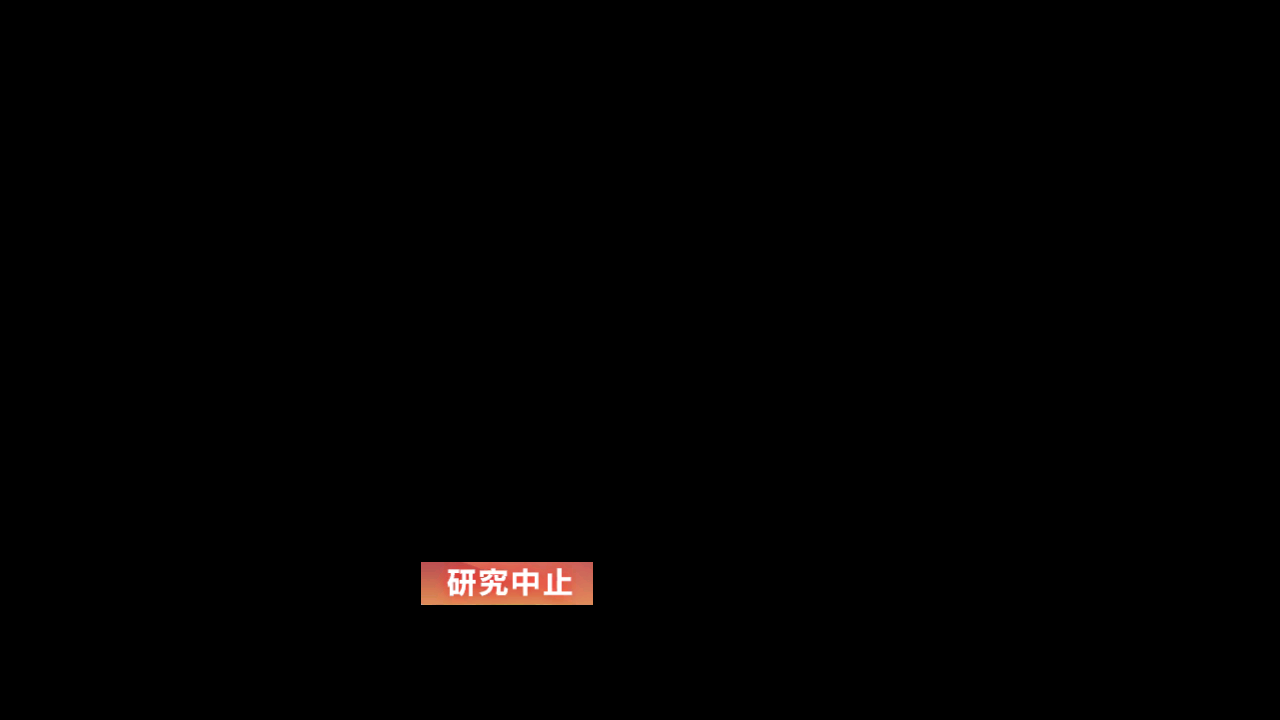
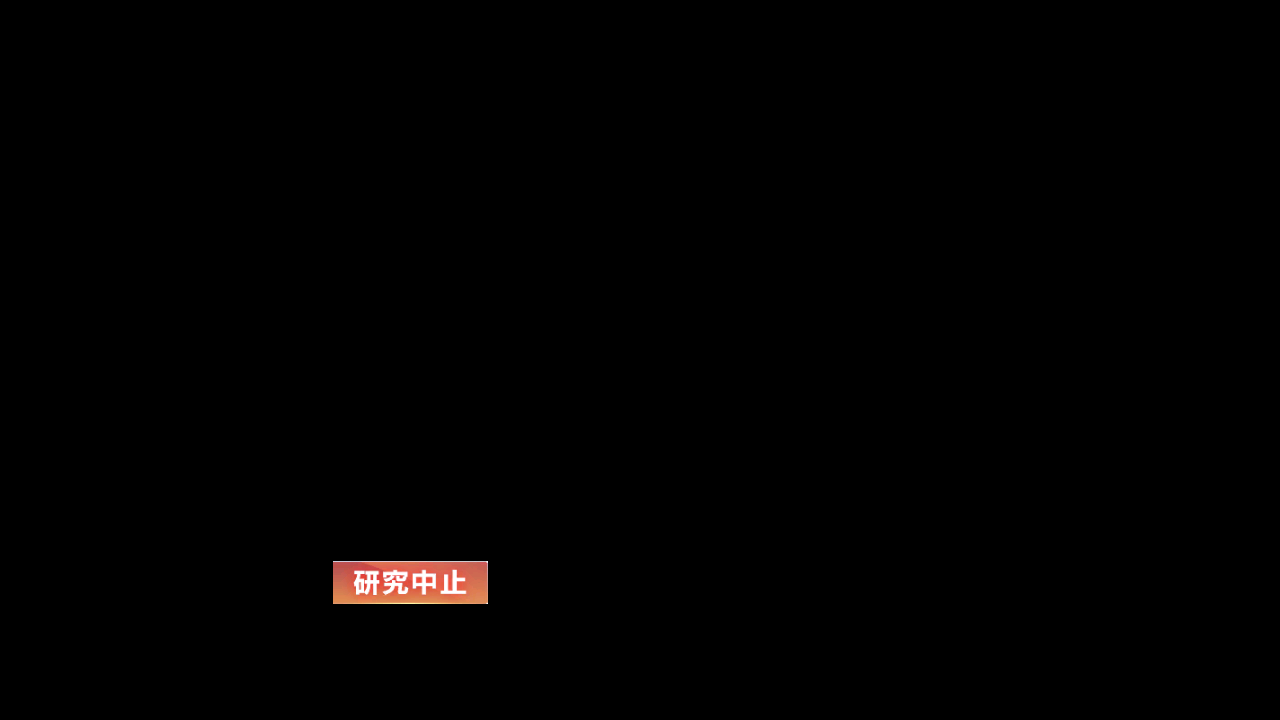
Fix: [JP] Research assets

Changed region(s): [[0.25, 0.7639, 0.4688, 0.8556]]

diff --git a/module/research/assets.py b/module/research/assets.py
@@ -30,9 +30,9 @@ OCR_RESEARCH_2 = Button(area={'cn': (292, 263, 490, 325), 'en': (292, 263, 490, 
 OCR_RESEARCH_3 = Button(area={'cn': (505, 249, 730, 319), 'en': (505, 249, 730, 319), 'jp': (505, 249, 730, 319), 'tw': (505, 249, 730, 319)}, color={'cn': (204, 180, 143), 'en': (204, 180, 143), 'jp': (204, 180, 143), 'tw': (204, 180, 143)}, button={'cn': (505, 249, 730, 319), 'en': (505, 249, 730, 319), 'jp': (505, 249, 730, 319), 'tw': (505, 249, 730, 319)}, file={'cn': './assets/cn/research/OCR_RESEARCH_3.png', 'en': './assets/en/research/OCR_RESEARCH_3.png', 'jp': './assets/jp/research/OCR_RESEARCH_3.png', 'tw': './assets/tw/research/OCR_RESEARCH_3.png'})
 OCR_RESEARCH_4 = Button(area={'cn': (752, 263, 950, 325), 'en': (752, 263, 950, 325), 'jp': (752, 263, 950, 325), 'tw': (752, 263, 950, 325)}, color={'cn': (122, 155, 203), 'en': (122, 155, 203), 'jp': (122, 155, 203), 'tw': (122, 155, 203)}, button={'cn': (752, 263, 950, 325), 'en': (752, 263, 950, 325), 'jp': (752, 263, 950, 325), 'tw': (752, 263, 950, 325)}, file={'cn': './assets/cn/research/OCR_RESEARCH_4.png', 'en': './assets/en/research/OCR_RESEARCH_4.png', 'jp': './assets/jp/research/OCR_RESEARCH_4.png', 'tw': './assets/tw/research/OCR_RESEARCH_4.png'})
 OCR_RESEARCH_5 = Button(area={'cn': (998, 276, 1169, 329), 'en': (998, 276, 1169, 329), 'jp': (998, 276, 1169, 329), 'tw': (998, 276, 1169, 329)}, color={'cn': (124, 156, 204), 'en': (124, 156, 204), 'jp': (124, 156, 204), 'tw': (124, 156, 204)}, button={'cn': (998, 276, 1169, 329), 'en': (998, 276, 1169, 329), 'jp': (998, 276, 1169, 329), 'tw': (998, 276, 1169, 329)}, file={'cn': './assets/cn/research/OCR_RESEARCH_5.png', 'en': './assets/en/research/OCR_RESEARCH_5.png', 'jp': './assets/jp/research/OCR_RESEARCH_5.png', 'tw': './assets/tw/research/OCR_RESEARCH_5.png'})
-QUEUE_CHECK = Button(area={'cn': (118, 16, 227, 39), 'en': (117, 16, 215, 38), 'jp': (118, 16, 227, 39), 'tw': (118, 16, 227, 39)}, color={'cn': (149, 166, 205), 'en': (125, 139, 179), 'jp': (149, 166, 205), 'tw': (149, 166, 205)}, button={'cn': (118, 16, 227, 39), 'en': (117, 16, 215, 38), 'jp': (118, 16, 227, 39), 'tw': (118, 16, 227, 39)}, file={'cn': './assets/cn/research/QUEUE_CHECK.png', 'en': './assets/en/research/QUEUE_CHECK.png', 'jp': './assets/cn/research/QUEUE_CHECK.png', 'tw': './assets/cn/research/QUEUE_CHECK.png'})
-QUEUE_CLAIM_REWARD = Button(area={'cn': (1230, 275, 1272, 420), 'en': (1225, 258, 1270, 448), 'jp': (1230, 275, 1272, 420), 'tw': (1230, 275, 1272, 420)}, color={'cn': (249, 182, 121), 'en': (249, 171, 97), 'jp': (249, 182, 121), 'tw': (249, 182, 121)}, button={'cn': (1230, 275, 1272, 420), 'en': (1225, 258, 1270, 448), 'jp': (1230, 275, 1272, 420), 'tw': (1230, 275, 1272, 420)}, file={'cn': './assets/cn/research/QUEUE_CLAIM_REWARD.png', 'en': './assets/en/research/QUEUE_CLAIM_REWARD.png', 'jp': './assets/cn/research/QUEUE_CLAIM_REWARD.png', 'tw': './assets/cn/research/QUEUE_CLAIM_REWARD.png'})
-QUEUE_REMAIN = Button(area={'cn': (156, 605, 272, 637), 'en': (151, 580, 278, 617), 'jp': (156, 605, 272, 637), 'tw': (156, 605, 272, 637)}, color={'cn': (193, 212, 240), 'en': (191, 210, 238), 'jp': (193, 212, 240), 'tw': (193, 212, 240)}, button={'cn': (156, 605, 272, 637), 'en': (151, 580, 278, 617), 'jp': (156, 605, 272, 637), 'tw': (156, 605, 272, 637)}, file={'cn': './assets/cn/research/QUEUE_REMAIN.png', 'en': './assets/en/research/QUEUE_REMAIN.png', 'jp': './assets/jp/research/QUEUE_REMAIN.png', 'tw': './assets/tw/research/QUEUE_REMAIN.png'})
+QUEUE_CHECK = Button(area={'cn': (118, 16, 227, 39), 'en': (117, 16, 215, 38), 'jp': (116, 14, 232, 42), 'tw': (118, 16, 227, 39)}, color={'cn': (149, 166, 205), 'en': (125, 139, 179), 'jp': (147, 163, 199), 'tw': (149, 166, 205)}, button={'cn': (118, 16, 227, 39), 'en': (117, 16, 215, 38), 'jp': (116, 14, 232, 42), 'tw': (118, 16, 227, 39)}, file={'cn': './assets/cn/research/QUEUE_CHECK.png', 'en': './assets/en/research/QUEUE_CHECK.png', 'jp': './assets/jp/research/QUEUE_CHECK.png', 'tw': './assets/cn/research/QUEUE_CHECK.png'})
+QUEUE_CLAIM_REWARD = Button(area={'cn': (1230, 275, 1272, 420), 'en': (1225, 258, 1270, 448), 'jp': (1219, 254, 1279, 460), 'tw': (1230, 275, 1272, 420)}, color={'cn': (249, 182, 121), 'en': (249, 171, 97), 'jp': (249, 170, 97), 'tw': (249, 182, 121)}, button={'cn': (1230, 275, 1272, 420), 'en': (1225, 258, 1270, 448), 'jp': (1219, 254, 1279, 460), 'tw': (1230, 275, 1272, 420)}, file={'cn': './assets/cn/research/QUEUE_CLAIM_REWARD.png', 'en': './assets/en/research/QUEUE_CLAIM_REWARD.png', 'jp': './assets/jp/research/QUEUE_CLAIM_REWARD.png', 'tw': './assets/cn/research/QUEUE_CLAIM_REWARD.png'})
+QUEUE_REMAIN = Button(area={'cn': (156, 605, 272, 637), 'en': (151, 580, 278, 617), 'jp': (157, 605, 277, 636), 'tw': (156, 605, 272, 637)}, color={'cn': (193, 212, 240), 'en': (191, 210, 238), 'jp': (188, 208, 239), 'tw': (193, 212, 240)}, button={'cn': (156, 605, 272, 637), 'en': (151, 580, 278, 617), 'jp': (157, 605, 277, 636), 'tw': (156, 605, 272, 637)}, file={'cn': './assets/cn/research/QUEUE_REMAIN.png', 'en': './assets/en/research/QUEUE_REMAIN.png', 'jp': './assets/jp/research/QUEUE_REMAIN.png', 'tw': './assets/tw/research/QUEUE_REMAIN.png'})
 RESEARCH_COST_CHECKER = Button(area={'cn': (809, 365, 972, 386), 'en': (809, 365, 972, 386), 'jp': (809, 365, 972, 386), 'tw': (809, 365, 972, 386)}, color={'cn': (105, 114, 128), 'en': (105, 114, 128), 'jp': (105, 114, 128), 'tw': (105, 114, 128)}, button={'cn': (809, 365, 972, 386), 'en': (809, 365, 972, 386), 'jp': (809, 365, 972, 386), 'tw': (809, 365, 972, 386)}, file={'cn': './assets/cn/research/RESEARCH_COST_CHECKER.png', 'en': './assets/en/research/RESEARCH_COST_CHECKER.png', 'jp': './assets/jp/research/RESEARCH_COST_CHECKER.png', 'tw': './assets/tw/research/RESEARCH_COST_CHECKER.png'})
 RESEARCH_DETAIL_QUIT = Button(area={'cn': (695, 656, 784, 707), 'en': (695, 656, 784, 707), 'jp': (695, 656, 784, 707), 'tw': (695, 656, 784, 707)}, color={'cn': (50, 57, 74), 'en': (50, 57, 74), 'jp': (50, 57, 74), 'tw': (50, 57, 74)}, button={'cn': (695, 656, 784, 707), 'en': (695, 656, 784, 707), 'jp': (695, 656, 784, 707), 'tw': (695, 656, 784, 707)}, file={'cn': './assets/cn/research/RESEARCH_DETAIL_QUIT.png', 'en': './assets/en/research/RESEARCH_DETAIL_QUIT.png', 'jp': './assets/jp/research/RESEARCH_DETAIL_QUIT.png', 'tw': './assets/tw/research/RESEARCH_DETAIL_QUIT.png'})
 RESEARCH_FINISHED = Button(area={'cn': (384, 547, 502, 585), 'en': (382, 545, 504, 587), 'jp': (383, 546, 503, 586), 'tw': (384, 547, 502, 585)}, color={'cn': (233, 163, 69), 'en': (235, 174, 92), 'jp': (229, 159, 63), 'tw': (233, 163, 69)}, button={'cn': (384, 547, 502, 585), 'en': (382, 545, 504, 587), 'jp': (383, 546, 503, 586), 'tw': (384, 547, 502, 585)}, file={'cn': './assets/cn/research/RESEARCH_FINISHED.png', 'en': './assets/en/research/RESEARCH_FINISHED.png', 'jp': './assets/jp/research/RESEARCH_FINISHED.png', 'tw': './assets/tw/research/RESEARCH_FINISHED.png'})
@@ -40,10 +40,10 @@ RESEARCH_GOTO_QUEUE = Button(area={'cn': (4, 227, 51, 255), 'en': (4, 227, 51, 2
 RESEARCH_LAB = Button(area={'cn': (55, 518, 186, 559), 'en': (75, 539, 129, 558), 'jp': (56, 512, 189, 554), 'tw': (54, 533, 187, 562)}, color={'cn': (113, 142, 174), 'en': (133, 169, 199), 'jp': (106, 136, 168), 'tw': (121, 161, 195)}, button={'cn': (55, 518, 186, 559), 'en': (75, 539, 129, 558), 'jp': (56, 512, 189, 554), 'tw': (54, 533, 187, 562)}, file={'cn': './assets/cn/research/RESEARCH_LAB.png', 'en': './assets/en/research/RESEARCH_LAB.png', 'jp': './assets/jp/research/RESEARCH_LAB.png', 'tw': './assets/tw/research/RESEARCH_LAB.png'})
 RESEARCH_LAB_DURATION_REMAIN = Button(area={'cn': (379, 583, 504, 614), 'en': (379, 583, 504, 614), 'jp': (379, 583, 504, 614), 'tw': (379, 583, 504, 614)}, color={'cn': (158, 157, 158), 'en': (158, 157, 158), 'jp': (158, 157, 158), 'tw': (158, 157, 158)}, button={'cn': (379, 583, 504, 614), 'en': (379, 583, 504, 614), 'jp': (379, 583, 504, 614), 'tw': (379, 583, 504, 614)}, file={'cn': './assets/cn/research/RESEARCH_LAB_DURATION_REMAIN.png', 'en': './assets/en/research/RESEARCH_LAB_DURATION_REMAIN.png', 'jp': './assets/jp/research/RESEARCH_LAB_DURATION_REMAIN.png', 'tw': './assets/tw/research/RESEARCH_LAB_DURATION_REMAIN.png'})
 RESEARCH_PENDING = Button(area={'cn': (227, 589, 269, 607), 'en': (227, 589, 269, 607), 'jp': (221, 588, 282, 612), 'tw': (225, 586, 272, 612)}, color={'cn': (108, 163, 168), 'en': (98, 152, 158), 'jp': (101, 148, 156), 'tw': (93, 144, 151)}, button={'cn': (227, 589, 269, 607), 'en': (227, 589, 269, 607), 'jp': (221, 588, 282, 612), 'tw': (225, 586, 272, 612)}, file={'cn': './assets/cn/research/RESEARCH_PENDING.png', 'en': './assets/en/research/RESEARCH_PENDING.png', 'jp': './assets/jp/research/RESEARCH_PENDING.png', 'tw': './assets/tw/research/RESEARCH_PENDING.png'})
-RESEARCH_QUEUE_ADD = Button(area={'cn': (541, 570, 654, 595), 'en': (564, 574, 635, 590), 'jp': (541, 570, 654, 595), 'tw': (541, 570, 654, 595)}, color={'cn': (164, 203, 237), 'en': (144, 189, 232), 'jp': (164, 203, 237), 'tw': (164, 203, 237)}, button={'cn': (541, 570, 654, 595), 'en': (564, 574, 635, 590), 'jp': (541, 570, 654, 595), 'tw': (541, 570, 654, 595)}, file={'cn': './assets/cn/research/RESEARCH_QUEUE_ADD.png', 'en': './assets/en/research/RESEARCH_QUEUE_ADD.png', 'jp': './assets/cn/research/RESEARCH_QUEUE_ADD.png', 'tw': './assets/cn/research/RESEARCH_QUEUE_ADD.png'})
+RESEARCH_QUEUE_ADD = Button(area={'cn': (541, 570, 654, 595), 'en': (564, 574, 635, 590), 'jp': (522, 559, 679, 604), 'tw': (541, 570, 654, 595)}, color={'cn': (164, 203, 237), 'en': (144, 189, 232), 'jp': (113, 166, 221), 'tw': (164, 203, 237)}, button={'cn': (541, 570, 654, 595), 'en': (564, 574, 635, 590), 'jp': (522, 559, 679, 604), 'tw': (541, 570, 654, 595)}, file={'cn': './assets/cn/research/RESEARCH_QUEUE_ADD.png', 'en': './assets/en/research/RESEARCH_QUEUE_ADD.png', 'jp': './assets/jp/research/RESEARCH_QUEUE_ADD.png', 'tw': './assets/cn/research/RESEARCH_QUEUE_ADD.png'})
 RESEARCH_RUNNING = Button(area={'cn': (313, 556, 362, 619), 'en': (313, 556, 362, 619), 'jp': (313, 556, 362, 619), 'tw': (313, 556, 362, 619)}, color={'cn': (124, 126, 131), 'en': (124, 126, 131), 'jp': (124, 126, 131), 'tw': (124, 126, 131)}, button={'cn': (313, 556, 362, 619), 'en': (313, 556, 362, 619), 'jp': (313, 556, 362, 619), 'tw': (313, 556, 362, 619)}, file={'cn': './assets/cn/research/RESEARCH_RUNNING.png', 'en': './assets/en/research/RESEARCH_RUNNING.png', 'jp': './assets/jp/research/RESEARCH_RUNNING.png', 'tw': './assets/tw/research/RESEARCH_RUNNING.png'})
-RESEARCH_START = Button(area={'cn': (445, 569, 568, 597), 'en': (459, 571, 556, 591), 'jp': (421, 562, 594, 605), 'tw': (423, 558, 594, 605)}, color={'cn': (173, 211, 242), 'en': (140, 188, 231), 'jp': (123, 173, 222), 'tw': (126, 176, 227)}, button={'cn': (445, 569, 568, 597), 'en': (459, 571, 556, 591), 'jp': (421, 562, 594, 605), 'tw': (423, 558, 594, 605)}, file={'cn': './assets/cn/research/RESEARCH_START.png', 'en': './assets/en/research/RESEARCH_START.png', 'jp': './assets/jp/research/RESEARCH_START.png', 'tw': './assets/tw/research/RESEARCH_START.png'})
-RESEARCH_STOP = Button(area={'cn': (329, 561, 485, 602), 'en': (349, 574, 464, 592), 'jp': (421, 562, 593, 605), 'tw': (423, 558, 594, 605)}, color={'cn': (228, 138, 117), 'en': (231, 152, 141), 'jp': (225, 137, 117), 'tw': (230, 141, 120)}, button={'cn': (329, 561, 485, 602), 'en': (349, 574, 464, 592), 'jp': (421, 562, 593, 605), 'tw': (423, 558, 594, 605)}, file={'cn': './assets/cn/research/RESEARCH_STOP.png', 'en': './assets/en/research/RESEARCH_STOP.png', 'jp': './assets/jp/research/RESEARCH_STOP.png', 'tw': './assets/tw/research/RESEARCH_STOP.png'})
+RESEARCH_START = Button(area={'cn': (445, 569, 568, 597), 'en': (459, 571, 556, 591), 'jp': (423, 556, 596, 608), 'tw': (423, 558, 594, 605)}, color={'cn': (173, 211, 242), 'en': (140, 188, 231), 'jp': (109, 163, 219), 'tw': (126, 176, 227)}, button={'cn': (445, 569, 568, 597), 'en': (459, 571, 556, 591), 'jp': (423, 556, 596, 608), 'tw': (423, 558, 594, 605)}, file={'cn': './assets/cn/research/RESEARCH_START.png', 'en': './assets/en/research/RESEARCH_START.png', 'jp': './assets/jp/research/RESEARCH_START.png', 'tw': './assets/tw/research/RESEARCH_START.png'})
+RESEARCH_STOP = Button(area={'cn': (329, 561, 485, 602), 'en': (349, 574, 464, 592), 'jp': (333, 561, 488, 604), 'tw': (423, 558, 594, 605)}, color={'cn': (228, 138, 117), 'en': (231, 152, 141), 'jp': (225, 138, 117), 'tw': (230, 141, 120)}, button={'cn': (329, 561, 485, 602), 'en': (349, 574, 464, 592), 'jp': (333, 561, 488, 604), 'tw': (423, 558, 594, 605)}, file={'cn': './assets/cn/research/RESEARCH_STOP.png', 'en': './assets/en/research/RESEARCH_STOP.png', 'jp': './assets/jp/research/RESEARCH_STOP.png', 'tw': './assets/tw/research/RESEARCH_STOP.png'})
 RESEARCH_UNAVAILABLE = Button(area={'cn': (509, 569, 568, 597), 'en': (434, 573, 577, 593), 'jp': (421, 562, 595, 605), 'tw': (440, 565, 576, 601)}, color={'cn': (185, 191, 194), 'en': (150, 176, 199), 'jp': (159, 174, 202), 'tw': (156, 181, 203)}, button={'cn': (509, 569, 568, 597), 'en': (434, 573, 577, 593), 'jp': (421, 562, 595, 605), 'tw': (440, 565, 576, 601)}, file={'cn': './assets/cn/research/RESEARCH_UNAVAILABLE.png', 'en': './assets/en/research/RESEARCH_UNAVAILABLE.png', 'jp': './assets/jp/research/RESEARCH_UNAVAILABLE.png', 'tw': './assets/tw/research/RESEARCH_UNAVAILABLE.png'})
 RESET_AVAILABLE = Button(area={'cn': (1153, 662, 1227, 679), 'en': (1099, 648, 1238, 693), 'jp': (1101, 650, 1236, 690), 'tw': (1102, 651, 1235, 691)}, color={'cn': (101, 118, 152), 'en': (62, 84, 110), 'jp': (74, 88, 121), 'tw': (67, 82, 116)}, button={'cn': (1153, 662, 1227, 679), 'en': (1099, 648, 1238, 693), 'jp': (1101, 650, 1236, 690), 'tw': (1102, 651, 1235, 691)}, file={'cn': './assets/cn/research/RESET_AVAILABLE.png', 'en': './assets/en/research/RESET_AVAILABLE.png', 'jp': './assets/jp/research/RESET_AVAILABLE.png', 'tw': './assets/tw/research/RESET_AVAILABLE.png'})
 SERIES_1 = Button(area={'cn': (86, 154, 113, 173), 'en': (86, 154, 113, 173), 'jp': (86, 154, 113, 173), 'tw': (86, 154, 113, 173)}, color={'cn': (197, 108, 91), 'en': (197, 108, 91), 'jp': (197, 108, 91), 'tw': (197, 108, 91)}, button={'cn': (86, 154, 113, 173), 'en': (86, 154, 113, 173), 'jp': (86, 154, 113, 173), 'tw': (86, 154, 113, 173)}, file={'cn': './assets/cn/research/SERIES_1.png', 'en': './assets/en/research/SERIES_1.png', 'jp': './assets/jp/research/SERIES_1.png', 'tw': './assets/tw/research/SERIES_1.png'})
@@ -59,6 +59,6 @@ STATUS_2 = Button(area={'cn': (330, 570, 336, 576), 'en': (330, 570, 336, 576), 
 STATUS_3 = Button(area={'cn': (549, 598, 556, 605), 'en': (549, 598, 556, 605), 'jp': (549, 598, 556, 605), 'tw': (549, 598, 556, 605)}, color={'cn': (115, 166, 222), 'en': (115, 166, 222), 'jp': (115, 166, 222), 'tw': (115, 166, 222)}, button={'cn': (549, 598, 556, 605), 'en': (549, 598, 556, 605), 'jp': (549, 598, 556, 605), 'tw': (549, 598, 556, 605)}, file={'cn': './assets/cn/research/STATUS_3.png', 'en': './assets/en/research/STATUS_3.png', 'jp': './assets/jp/research/STATUS_3.png', 'tw': './assets/tw/research/STATUS_3.png'})
 STATUS_4 = Button(area={'cn': (790, 570, 796, 576), 'en': (790, 570, 796, 576), 'jp': (790, 570, 796, 576), 'tw': (790, 570, 796, 576)}, color={'cn': (115, 166, 222), 'en': (115, 166, 222), 'jp': (115, 166, 222), 'tw': (115, 166, 222)}, button={'cn': (790, 570, 796, 576), 'en': (790, 570, 796, 576), 'jp': (790, 570, 796, 576), 'tw': (790, 570, 796, 576)}, file={'cn': './assets/cn/research/STATUS_4.png', 'en': './assets/en/research/STATUS_4.png', 'jp': './assets/jp/research/STATUS_4.png', 'tw': './assets/tw/research/STATUS_4.png'})
 STATUS_5 = Button(area={'cn': (1031, 541, 1037, 547), 'en': (1031, 541, 1037, 547), 'jp': (1031, 541, 1037, 547), 'tw': (1031, 541, 1037, 547)}, color={'cn': (115, 166, 222), 'en': (115, 166, 222), 'jp': (115, 166, 222), 'tw': (115, 166, 222)}, button={'cn': (1031, 541, 1037, 547), 'en': (1031, 541, 1037, 547), 'jp': (1031, 541, 1037, 547), 'tw': (1031, 541, 1037, 547)}, file={'cn': './assets/cn/research/STATUS_5.png', 'en': './assets/en/research/STATUS_5.png', 'jp': './assets/jp/research/STATUS_5.png', 'tw': './assets/tw/research/STATUS_5.png'})
-TEMPLATE_DETAIL = Template(file={'cn': './assets/cn/research/TEMPLATE_DETAIL.png', 'en': './assets/en/research/TEMPLATE_DETAIL.png', 'jp': './assets/cn/research/TEMPLATE_DETAIL.png', 'tw': './assets/cn/research/TEMPLATE_DETAIL.png'})
-TEMPLATE_RUNNING = Template(file={'cn': './assets/cn/research/TEMPLATE_RUNNING.png', 'en': './assets/en/research/TEMPLATE_RUNNING.png', 'jp': './assets/cn/research/TEMPLATE_RUNNING.png', 'tw': './assets/cn/research/TEMPLATE_RUNNING.png'})
-TEMPLATE_WAITING = Template(file={'cn': './assets/cn/research/TEMPLATE_WAITING.png', 'en': './assets/en/research/TEMPLATE_WAITING.png', 'jp': './assets/cn/research/TEMPLATE_WAITING.png', 'tw': './assets/cn/research/TEMPLATE_WAITING.png'})
+TEMPLATE_DETAIL = Template(file={'cn': './assets/cn/research/TEMPLATE_DETAIL.png', 'en': './assets/en/research/TEMPLATE_DETAIL.png', 'jp': './assets/jp/research/TEMPLATE_DETAIL.png', 'tw': './assets/cn/research/TEMPLATE_DETAIL.png'})
+TEMPLATE_RUNNING = Template(file={'cn': './assets/cn/research/TEMPLATE_RUNNING.png', 'en': './assets/en/research/TEMPLATE_RUNNING.png', 'jp': './assets/jp/research/TEMPLATE_RUNNING.png', 'tw': './assets/cn/research/TEMPLATE_RUNNING.png'})
+TEMPLATE_WAITING = Template(file={'cn': './assets/cn/research/TEMPLATE_WAITING.png', 'en': './assets/en/research/TEMPLATE_WAITING.png', 'jp': './assets/jp/research/TEMPLATE_WAITING.png', 'tw': './assets/cn/research/TEMPLATE_WAITING.png'})

diff --git a/module/research/rqueue.py b/module/research/rqueue.py
@@ -46,6 +46,15 @@ class ResearchQueue(ResearchUI):
             origin=(8, 259), delta=(0, 40.5), button_shape=(25, 25), grid_shape=(1, 5), name='QUEUE_STATUS')
 
     @cached_property
+    @Config.when(SERVER='jp')
+    def queue_status_grids(self):
+        """
+        Status icons on the left
+        """
+        return ButtonGrid(
+            origin=(8, 259), delta=(0, 40.5), button_shape=(25, 25), grid_shape=(1, 5), name='QUEUE_STATUS')
+
+    @cached_property
     @Config.when(SERVER=None)
     def queue_status_grids(self):
         """

diff --git a/module/research/research.py b/module/research/research.py
@@ -437,7 +437,7 @@ class RewardResearch(ResearchSelector, ResearchQueue):
                     or page_main
         """
         # Remove this when your server is updated for PR5
-        if self.config.SERVER in ['jp', 'tw']:
+        if self.config.SERVER in ['tw']:
             logger.warning('Task "Research" is forced delayed 2 hours before PR5 support. '
                            'Please do research manually and contact server maintainers')
             self.config.task_delay(minute=120)
